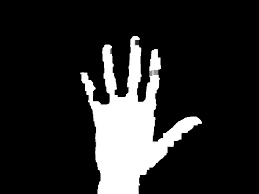
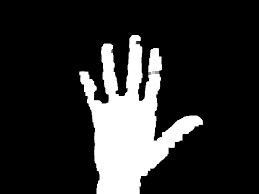
#17 image erosion with iteration 1 to 5 on rick ashley

diff --git a/code/image_erosion.py b/code/image_erosion.py
@@ -2,16 +2,29 @@ import cv2 as cv
 import numpy as np
 
 image = cv.imread(r'..\image\binary_one.png')
+image_rick = cv.imread(r'..\image\rickroll.jpg', cv.IMREAD_GRAYSCALE)
 
-kernal= np.ones((5,5), np.uint8)
+kernal= np.ones((3,3), np.uint8)
 erosion_iter_1 = cv.erode(image, kernal, iterations=1)
 erosion_iter_2 = cv.erode(image, kernal, iterations=2)
 erosion_iter_3 = cv.erode(image, kernal, iterations=3)
 erosion_iter_4 = cv.erode(image, kernal, iterations=4)
 erosion_iter_5 = cv.erode(image, kernal, iterations=5)
 
+rick_erosion_iter_1 = cv.erode(image_rick, kernal, iterations=1)
+rick_erosion_iter_2 = cv.erode(image_rick, kernal, iterations=2)
+rick_erosion_iter_3 = cv.erode(image_rick, kernal, iterations=3)
+rick_erosion_iter_4 = cv.erode(image_rick, kernal, iterations=4)
+rick_erosion_iter_5 = cv.erode(image_rick, kernal, iterations=5)
+
 cv.imwrite(r'../image/hand_erosion_iter_1.jpg',erosion_iter_1)
 cv.imwrite(r'../image/hand_erosion_iter_2.jpg',erosion_iter_2)
 cv.imwrite(r'../image/hand_erosion_iter_3.jpg',erosion_iter_3)
 cv.imwrite(r'../image/hand_erosion_iter_4.jpg',erosion_iter_4)
 cv.imwrite(r'../image/hand_erosion_iter_5.jpg',erosion_iter_5)
+
+cv.imwrite(r'../image/rick_erosion_iter_1.jpg',rick_erosion_iter_1)
+cv.imwrite(r'../image/rick_erosion_iter_2.jpg',rick_erosion_iter_2)
+cv.imwrite(r'../image/rick_erosion_iter_3.jpg',rick_erosion_iter_3)
+cv.imwrite(r'../image/rick_erosion_iter_4.jpg',rick_erosion_iter_4)
+cv.imwrite(r'../image/rick_erosion_iter_5.jpg',rick_erosion_iter_5)
